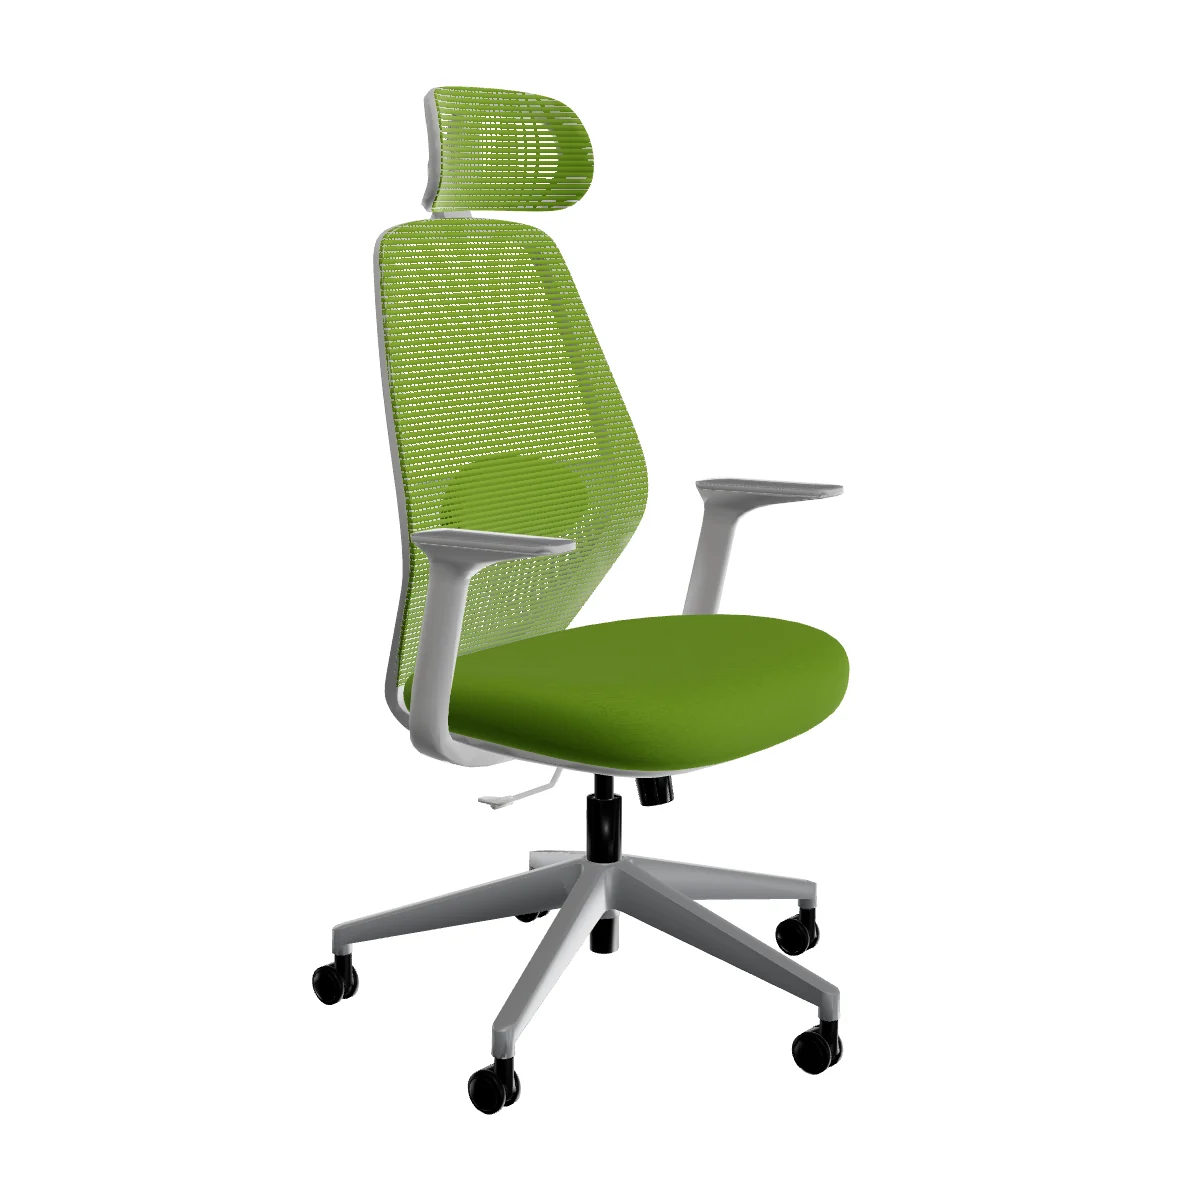
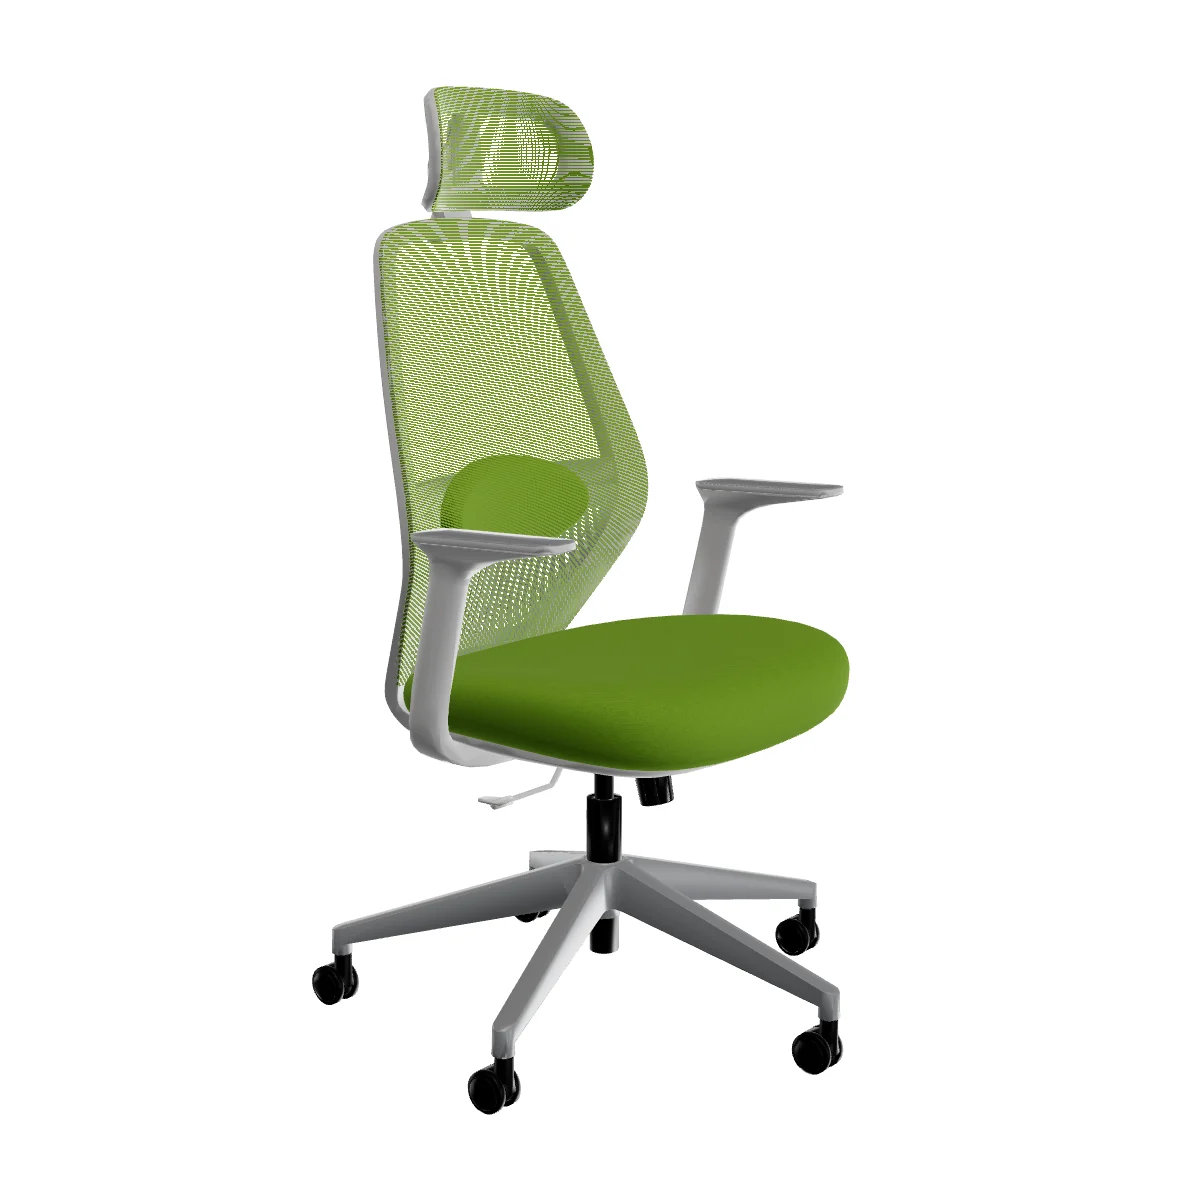
Finer breathable mesh: 4x thread count, thinner threads
Mesh weave goes from 30 to 120 tiles/m (120 -> 480 lines/m, ~2 mm pitch)
and each thread from 72% to 45% of its pitch. Poster/OG regenerated.

Changed region(s): [[0.3083, 0.0617, 0.555, 0.555]]

diff --git a/components/viewer/textures.ts b/components/viewer/textures.ts
@@ -7,6 +7,9 @@ import { CanvasTexture, RepeatWrapping, SRGBColorSpace, type MeshStandardMateria
  */
 const cache = new Map<string, Texture>();
 
+/** Fraction of each thread pitch that is solid thread (the rest is open gap). */
+const MESH_THREAD = 0.45;
+
 function canvas(size: number, draw: (ctx: CanvasRenderingContext2D, size: number) => void): CanvasTexture {
   const c = document.createElement("canvas");
   c.width = c.height = size;
@@ -25,14 +28,14 @@ function canvas(size: number, draw: (ctx: CanvasRenderingContext2D, size: number
 export function meshAlphaMap(repeat = 48): Texture {
   const key = `meshAlpha:${repeat}`;
   if (cache.has(key)) return cache.get(key)!;
-  const tex = canvas(64, (ctx, s) => {
+  const tex = canvas(128, (ctx, s) => {
     ctx.fillStyle = "#000";
     ctx.fillRect(0, 0, s, s);
     ctx.fillStyle = "#fff";
-    // 4 threads per tile, each ~60 % of its pitch, with a thin vertical warp thread.
+    // 4 threads per tile, each ~45 % of its pitch, with a thin vertical warp thread.
     const pitch = s / 4;
-    for (let i = 0; i < 4; i++) ctx.fillRect(0, i * pitch, s, pitch * 0.72);
-    for (let i = 0; i < 4; i++) ctx.fillRect(i * pitch, 0, pitch * 0.22, s);
+    for (let i = 0; i < 4; i++) ctx.fillRect(0, i * pitch, s, pitch * MESH_THREAD);
+    for (let i = 0; i < 4; i++) ctx.fillRect(i * pitch, 0, pitch * 0.14, s);
   });
   tex.repeat.set(repeat, repeat);
   cache.set(key, tex);
@@ -43,10 +46,10 @@ export function meshAlphaMap(repeat = 48): Texture {
 export function meshShadeMap(repeat = 48): Texture {
   const key = `meshShade:${repeat}`;
   if (cache.has(key)) return cache.get(key)!;
-  const tex = canvas(64, (ctx, s) => {
+  const tex = canvas(128, (ctx, s) => {
     const pitch = s / 4;
     for (let i = 0; i < 4; i++) {
-      const g = ctx.createLinearGradient(0, i * pitch, 0, i * pitch + pitch * 0.72);
+      const g = ctx.createLinearGradient(0, i * pitch, 0, i * pitch + pitch * MESH_THREAD);
       g.addColorStop(0, "#ffffff");
       g.addColorStop(0.55, "#f2f2f2");
       g.addColorStop(1, "#d4d4d4");
@@ -94,7 +97,7 @@ export function fabricMap(repeat = 24): Texture {
 /**
  * Samples `map` and `alphaMap` in world space instead of UV space so the weave stays a level,
  * evenly-spaced pattern on any geometry — auto-generated UVs from OBJ exports are usually distorted.
- * `tilesPerMetre` sets the thread pitch (48 tiles × 4 threads ≈ 5 mm per thread).
+ * `tilesPerMetre` sets the thread pitch (120 tiles × 4 threads ≈ 2 mm per thread).
  */
 export function projectPatternInWorldSpace(mat: MeshStandardMaterial, tilesPerMetre = 48): void {
   mat.onBeforeCompile = (shader) => {

diff --git a/components/viewer/Model.tsx b/components/viewer/Model.tsx
@@ -90,7 +90,7 @@ export function Model({ url, manifest }: ModelProps) {
             mat.alphaTest = 0.5; // cut-out holes, no sorting artefacts
             mat.transparent = false;
             mat.side = DoubleSide;
-            projectPatternInWorldSpace(mat, 30);
+            projectPatternInWorldSpace(mat, 120);
           } else if (role === "upholstery" || (role === "mesh" && merged.solid)) {
             mat.map = fabricMap();
             mat.alphaMap = null;
